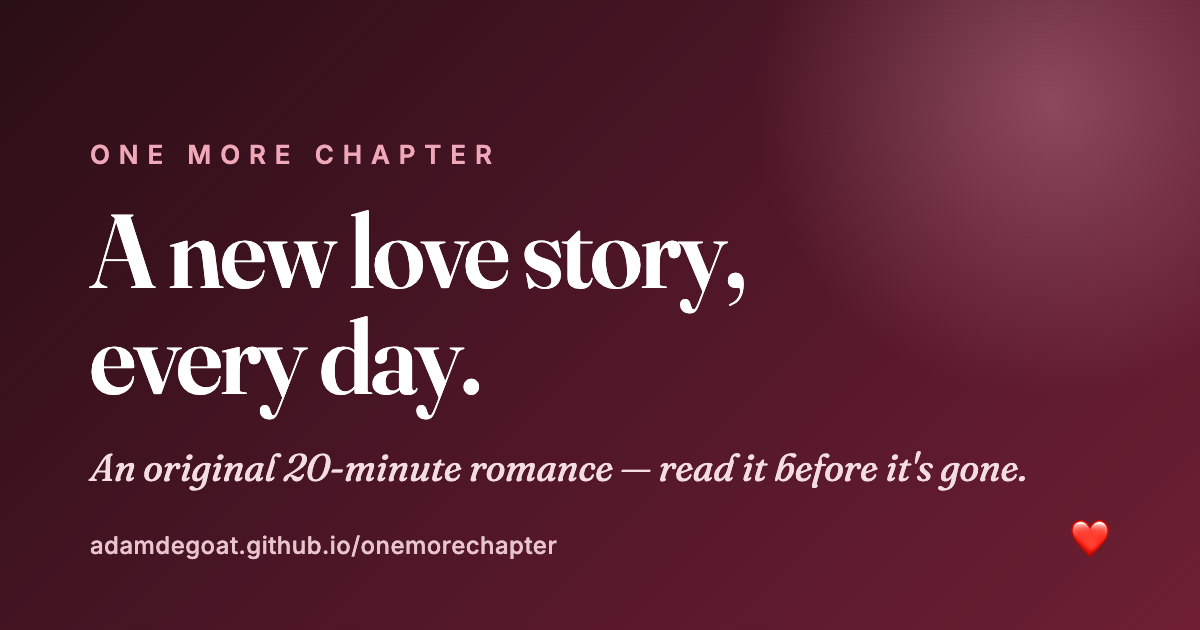
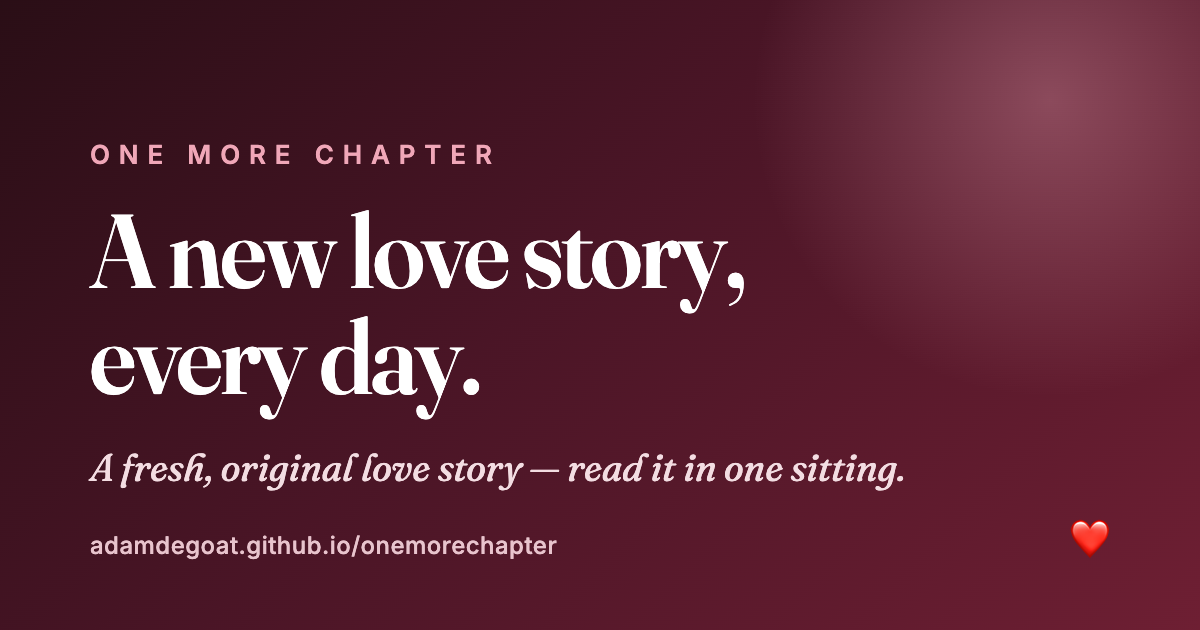
Wider 75% column, justified text, publish time, intro section, reading-time cap

Changed region(s): [[0.0925, 0.7238, 0.8633, 0.7841]]

diff --git a/assets/style.css b/assets/style.css
@@ -1,8 +1,9 @@
 :root{
   --bg:#fbf7f4; --ink:#241c1c; --muted:#8a7d78; --line:#ece2dc;
   --rose:#c0506b; --rose-soft:#f3dde2; --card:#ffffff; --accent:#a8324e;
-  --maxw:42rem;
+  --maxw:75vw;
 }
+@media (max-width:760px){ :root{ --maxw:92vw } }
 @media (prefers-color-scheme: dark){
   :root{ --bg:#161013; --ink:#efe7e4; --muted:#a8978f; --line:#2c2226;
          --rose:#e88aa0; --rose-soft:#33222a; --card:#1d1519; --accent:#f0a7b8; }
@@ -26,6 +27,13 @@ body{
 
 main{max-width:var(--maxw);margin:0 auto;padding:0 1.25rem}
 
+.about{margin:1.4rem 0 .5rem;padding:1.25rem 1.4rem;background:var(--card);
+  border:1px solid var(--line);border-left:3px solid var(--rose);border-radius:14px}
+.about .about-h{font-family:"Fraunces",serif;font-size:1.15rem;font-weight:600;margin:0 0 .35rem}
+.about p{margin:.25rem 0;color:var(--muted);font-size:.95rem;line-height:1.55;text-align:left}
+.about strong{color:var(--ink)}
+.about .today{color:var(--rose);font-weight:600;margin-top:.6rem}
+
 .tags{display:flex;flex-wrap:wrap;gap:.4rem;margin:1.2rem 0 .6rem}
 .tag{font-size:.72rem;text-transform:uppercase;letter-spacing:.06em;font-weight:600;
   color:var(--rose);background:var(--rose-soft);padding:.22rem .55rem;border-radius:999px}
@@ -35,7 +43,7 @@ main{max-width:var(--maxw);margin:0 auto;padding:0 1.25rem}
 .byline{color:var(--muted);font-size:.85rem;margin:0 0 1.6rem}
 
 .prose{font-family:"Fraunces",Georgia,serif;font-size:1.2rem;line-height:1.75}
-.prose p{margin:0 0 1.25rem}
+.prose p{margin:0 0 1.25rem;text-align:justify;-webkit-hyphens:auto;hyphens:auto}
 .prose p:first-of-type::first-letter{font-size:3.1rem;float:left;line-height:.82;
   padding:.05em .12em 0 0;color:var(--accent);font-weight:600}
 .prose em{font-style:italic}

diff --git a/index.html b/index.html
@@ -30,10 +30,14 @@
   <nav><a href="archive.html">Archive</a></nav>
 </header>
 <main>
-<article class="story">
+<section class="about">
+  <p class="about-h">Welcome to One More Chapter 💌</p>
+  <p>A brand-new, <strong>original love story</strong> — published here fresh every morning. A quick read (under 15 minutes), completely free, no sign-up. When you reach the last line, tell us how it made you feel — your reactions quietly shape what we write tomorrow.</p>
+  <p class="today">Today's chapter ↓</p>
+</section><article class="story">
   <div class="tags"><span class="tag">second-chance</span><span class="tag">seaside inn</span></div>
   <h1>The Off-Season</h1>
-  <p class="byline">2026-05-31 · ~14 min read</p>
+  <p class="byline">2026-05-31 · published 4:25 PM SGT · ~14 min read</p>
   <div class="prose">
 <p>The key still stuck in the lock the way it always had, and I still knew the trick of it — lift the door on its hinge, lean your hip, turn — so that when it finally gave, I half fell into the front hall of the Gull&#x27;s Rest and found Theo Maddox standing on a ladder in the dark, holding a chandelier together with his bare hands.</p>
 <p>&quot;You&#x27;re early,&quot; he said, not looking down. &quot;Tide&#x27;s not even out.&quot;</p>

diff --git a/stories/2026-05-31-the-off-season.html b/stories/2026-05-31-the-off-season.html
@@ -33,7 +33,7 @@
 <article class="story">
   <div class="tags"><span class="tag">second-chance</span><span class="tag">seaside inn</span></div>
   <h1>The Off-Season</h1>
-  <p class="byline">2026-05-31 · ~14 min read</p>
+  <p class="byline">2026-05-31 · published 4:25 PM SGT · ~14 min read</p>
   <div class="prose">
 <p>The key still stuck in the lock the way it always had, and I still knew the trick of it — lift the door on its hinge, lean your hip, turn — so that when it finally gave, I half fell into the front hall of the Gull&#x27;s Rest and found Theo Maddox standing on a ladder in the dark, holding a chandelier together with his bare hands.</p>
 <p>&quot;You&#x27;re early,&quot; he said, not looking down. &quot;Tide&#x27;s not even out.&quot;</p>